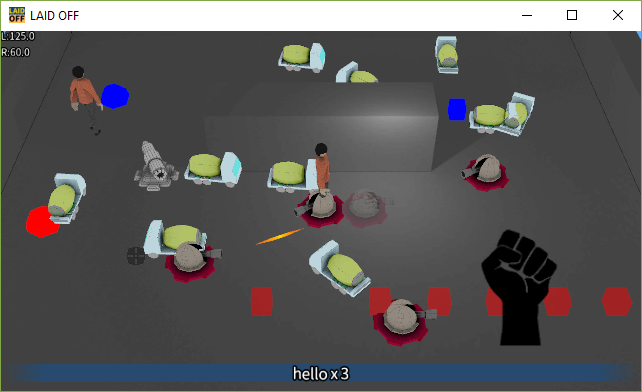
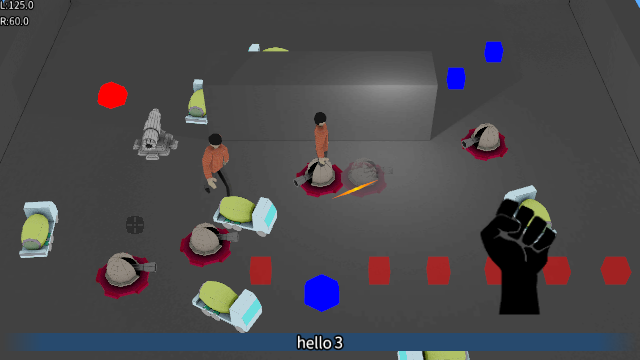
borderless

diff --git a/win32/main.c b/win32/main.c
@@ -112,7 +112,9 @@ int main(void)
 #if LW_PLATFORM_RPI
 	glfwWindowHint(GLFW_CLIENT_API, GLFW_OPENGL_ES_API);
 #endif
-	//glfwWindowHint(GLFW_DECORATED, GLFW_FALSE);
+
+	// Borderless or bordered window
+	glfwWindowHint(GLFW_DECORATED, GLFW_FALSE);
 
 	GLFWwindow* window = create_glfw_window();
 
